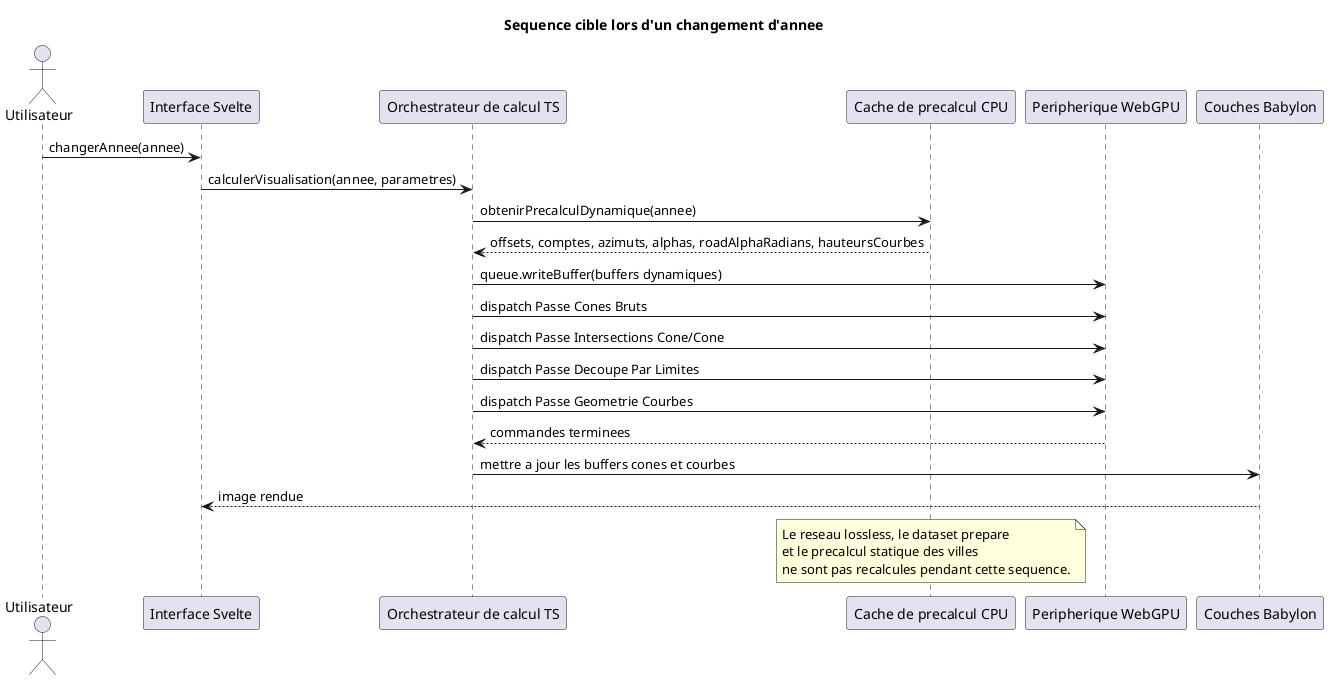
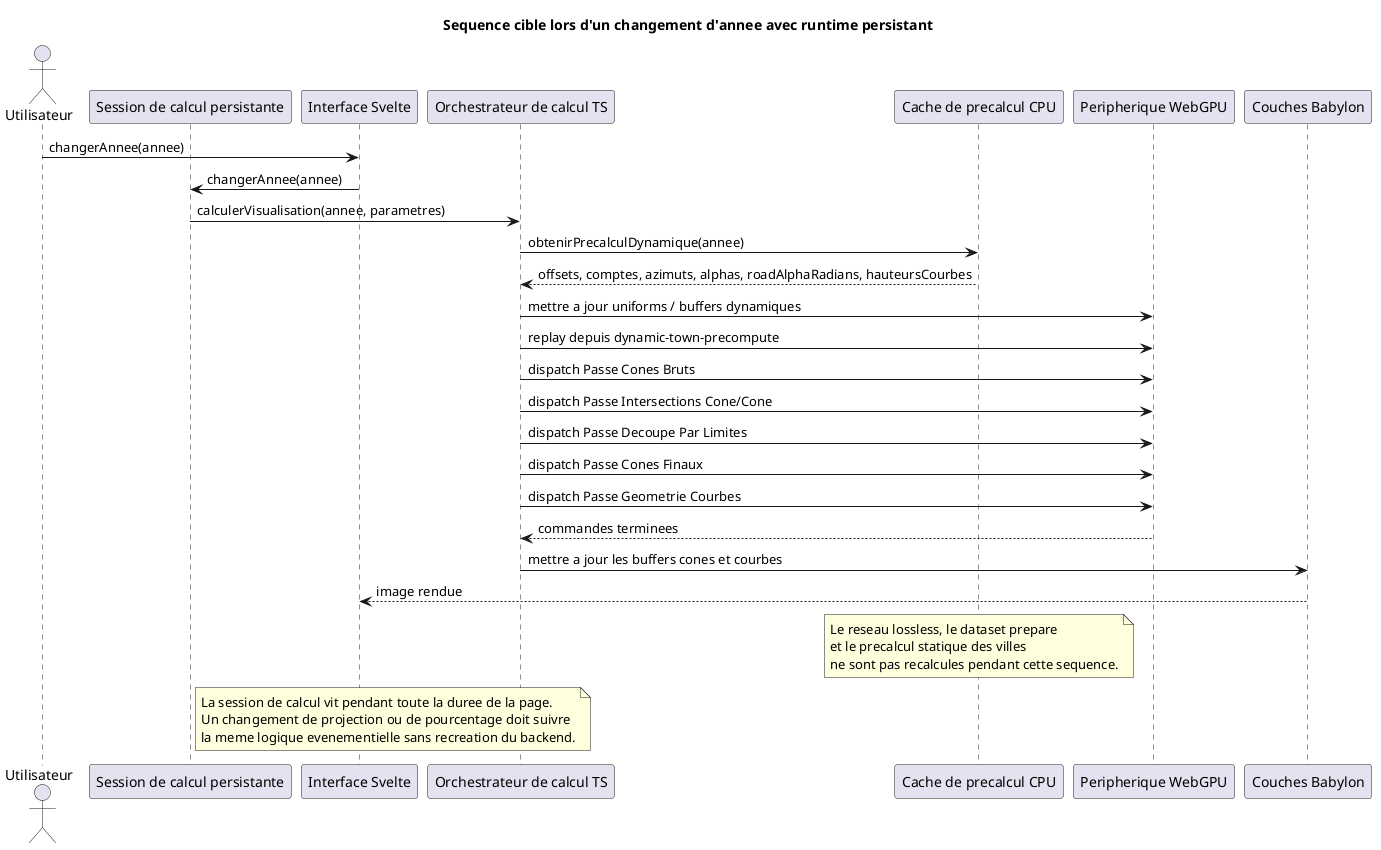
docs(m9): define browser gpu replay matrix

diff --git a/src/lib/compute/core/session.ts b/src/lib/compute/core/session.ts
@@ -18,6 +18,7 @@ import { createDefaultComputeBackendRegistry } from '../cpu';
  * context instead of tearing it down after each pass.
  */
 export interface ComputeSession {
+	warm(): Promise<void>;
 	selectProfile(request: ComputeProfileRequest): Promise<ComputeProfileSelection>;
 	computeFrame(input: ComputeInput, options?: ComputeOptions, request?: ComputeProfileRequest): Promise<ComputeResult>;
 	dispose(): Promise<void>;
@@ -32,10 +33,21 @@ export interface ComputeSession {
 export function createComputeSession(
 	registry: ComputeBackendRegistry = createDefaultComputeBackendRegistry(),
 ): ComputeSession {
-	let backend: ComputeBackend | null = null;
-	let backendProfile: ComputeProfileSelection['selected'] | null = null;
+	const backends = new Map<ComputeProfileSelection['selected'], ComputeBackend>();
 
 	return {
+		async warm(): Promise<void> {
+			await Promise.all([
+				warmBackend(registry, backends, 'cpu'),
+				warmBackend(registry, backends, 'webgl2'),
+				warmBackend(registry, backends, 'webgpu'),
+			].map((task) =>
+				task.catch((error) => {
+					console.warn('Compute backend warm-up failed:', error);
+				}),
+			));
+		},
+
 		selectProfile(request: ComputeProfileRequest): Promise<ComputeProfileSelection> {
 			return selectComputeProfile(request, registry);
 		},
@@ -46,20 +58,16 @@ export function createComputeSession(
 			request: ComputeProfileRequest = {},
 		): Promise<ComputeResult> {
 			const selection = await selectComputeProfile(request, registry);
-			const selectedBackend = await resolveSelectedBackend(registry, selection, backend, backendProfile);
-			backend = selectedBackend.backend;
-			backendProfile = selection.selected;
-			return selectedBackend.backend.computeFrame(input, options, selection);
+			const backend = await resolveSelectedBackend(registry, selection, backends);
+			return backend.computeFrame(input, options, selection);
 		},
 
 		async dispose(): Promise<void> {
-			if (!backend) {
-				return;
+			const disposals = Array.from(backends.values()).map((backend) => backend.dispose());
+			backends.clear();
+			if (disposals.length > 0) {
+				await Promise.all(disposals);
 			}
-			const currentBackend = backend;
-			backend = null;
-			backendProfile = null;
-			await currentBackend.dispose();
 		},
 	};
 }
@@ -67,18 +75,38 @@ export function createComputeSession(
 async function resolveSelectedBackend(
 	registry: ComputeBackendRegistry,
 	selection: ComputeProfileSelection,
-	currentBackend: ComputeBackend | null,
-	currentProfile: ComputeProfileSelection['selected'] | null,
-): Promise<{ backend: ComputeBackend }> {
-	if (currentBackend && currentProfile === selection.selected) {
-		return { backend: currentBackend };
+	backends: Map<ComputeProfileSelection['selected'], ComputeBackend>,
+): Promise<ComputeBackend> {
+	const currentBackend = backends.get(selection.selected);
+	if (currentBackend) {
+		return currentBackend;
 	}
 
 	const nextBackend = await createSelectedBackend(registry, selection);
-	if (currentBackend) {
-		await currentBackend.dispose();
+	backends.set(selection.selected, nextBackend);
+	return nextBackend;
+}
+
+async function warmBackend(
+	registry: ComputeBackendRegistry,
+	backends: Map<ComputeProfileSelection['selected'], ComputeBackend>,
+	profile: ComputeProfileSelection['selected'],
+): Promise<void> {
+	if (backends.has(profile)) {
+		return;
 	}
-	return { backend: nextBackend };
+	const descriptor = profile === 'cpu'
+		? registry.cpu
+		: profile === 'webgl2'
+			? registry.webgl2
+			: registry.webgpu;
+	if (!descriptor) {
+		return;
+	}
+	if (!(await descriptor.isAvailable())) {
+		return;
+	}
+	backends.set(profile, await descriptor.create());
 }
 
 async function createSelectedBackend(

diff --git a/src/routes/app/+page.svelte b/src/routes/app/+page.svelte
@@ -82,6 +82,7 @@
 
 	onMount(() => {
 		queryWorker = createQueryWorkerClient();
+		void computeSession.warm();
 		queryController = createQueryController({
 			getQueryWorker: () => queryWorker,
 			getQuerySnapshot: () => appState?.querySnapshot ?? null,

diff --git a/src/routes/workspace/+page.svelte b/src/routes/workspace/+page.svelte
@@ -87,6 +87,7 @@
 
 	onMount(() => {
 		queryWorker = createQueryWorkerClient();
+		void computeSession.warm();
 		const disposeWorkspaceE2e = installWorkspaceE2eApi({
 			setDataset: async (dataset: string) => {
 				selectedDataset = dataset;

diff --git a/docs/browser-gpu-runtime-stage-matrix.md b/docs/browser-gpu-runtime-stage-matrix.md
@@ -1,0 +1,79 @@
+# Browser GPU Runtime Stage Matrix
+
+This document is the operational matrix for the browser GPU runtime used by
+`workspace` and `app`.
+
+It answers two questions:
+
+- which data is required by each compute stage;
+- which kind of insertion the stage consumes or produces in the runtime
+  contract.
+
+The matrix is intentionally aligned with the historical `GPUComputer.calculate()`
+model from the main branch:
+
+- one runtime instance stays alive for the full page lifetime;
+- successive recomputations reuse that runtime;
+- only the minimal affected stage chain is replayed when a parameter changes.
+
+## Insertion Legend
+
+- `CPU`: CPU-side preparation or rewrite.
+- `U`: uniform or constant buffer.
+- `SB`: storage buffer.
+- `T`: texture / sampler pair.
+- `A`: vertex or instance attribute.
+- `TF`: transform feedback output.
+- `OUT`: output buffer or renderable geometry buffer.
+- `-`: not consumed by this stage.
+
+## Stage Matrix
+
+| Data / contract | ingestion / base-network | prepared-dataset | geojson-boundary-precompute | geojson-boundary-raycast | static-town-precompute | dynamic-town-precompute | raw-cones-precompute | cone-intersections-precompute | final-cones-precompute | curve-geometry-precompute |
+| --- | --- | --- | --- | --- | --- | --- | --- | --- | --- | --- |
+| source files / dataset manifest | CPU | - | - | - | - | - | - | - | - | - |
+| prepared dataset summary / static indices | CPU | U / SB | - | - | - | - | - | - | - | - |
+| GeoJSON contours / contour indexes | CPU | SB | T / SB | T / SB | - | - | - | - | - | - |
+| city NED2ECEF matrices | - | SB | - | - | SB | - | - | - | - | - |
+| pair invariants / overlap candidates | - | SB | - | - | SB | - | - | SB | - | - |
+| dynamic year / yearly town state | - | - | - | - | - | U / SB | U / SB | U / SB | U / SB | U / SB |
+| raw cone parameters | - | - | - | - | - | - | U / SB | U / SB | - | - |
+| cone intersection heuristics | - | - | - | - | - | - | - | U / SB | - | - |
+| projection mix start / end / percent / settings | - | - | - | - | - | - | - | - | U | - |
+| curve controls / curve year / coefficient | - | - | - | - | - | - | - | - | - | U / SB |
+| benchmark / diagnostics | CPU | CPU | CPU | CPU | CPU | CPU | CPU | CPU | CPU | CPU |
+
+## Replay Rules
+
+Use the matrix above to determine the earliest stage that must be replayed when
+an input changes.
+
+| Change | Minimal stage to replay | Notes |
+| --- | --- | --- |
+| dataset / source file set | `ingestion / base-network` | Rebuild the full chain; nothing downstream is reliable. |
+| GeoJSON geometry / boundary inputs | `geojson-boundary-precompute` | Replay the boundary precompute, then the dependent raycast and final stages. |
+| boundary azimuth sample count | `geojson-boundary-precompute` | The boundary precompute contract changes before the raycast. |
+| static town options (`sectorCount`, `neighborLimit`) | `static-town-precompute` | The static neighborhood contract changes, so all dependent stages must be replayed. |
+| year / yearly dynamic state | `dynamic-town-precompute` | Reuse the persistent runtime, refresh dynamic buffers, then replay raw cones and downstream stages. |
+| raw cone shape / sample count / length / attenuation | `raw-cones-precompute` | Raw cone buffers change, so intersection, final geometry and curves depending on those outputs must be replayed. |
+| cone intersection strategy / alpha heuristic | `cone-intersections-precompute` | Keep the same runtime, replay the ciseled / intersection stage and downstream outputs. |
+| projection mix or projection settings | `final-cones-precompute` | The projection formulas are applied at final cone emission for every backend profile. |
+| curve parameters | `curve-geometry-precompute` | Only the curve geometry stage must be replayed. |
+| compute profile (`cpu`, `webgl2`, `webgpu`) | profile-specific warm backend | The active runtime is swapped, but the same stage contract is replayed without re-reading the dataset. |
+
+## Practical Consequence
+
+The current application and workspace routes should keep one persistent compute
+session each.
+
+As long as the route remains mounted:
+
+- the session should be prewarmed on mount so the available browser GPU
+  backends are ready before the first user-driven recomputation;
+- the backend should stay warm;
+- changing the year should not recreate the runtime;
+- changing the projection mix should not recreate the runtime;
+- changing the profile should only swap the active backend, not the data
+  contract;
+- the compute passes remain event-driven and replay only from the first affected
+  stage.

diff --git a/docs/browser-gpu-runtime-notes.md b/docs/browser-gpu-runtime-notes.md
@@ -22,6 +22,8 @@ instead of rebuilding the backend for every year or projection change.
 - recreate the backend only when the profile changes or the page is disposed;
 - keep reduced datasets available for E2E coverage of the three profiles.
 - keep the page-owned compute session alive while the route remains mounted;
+- prewarm the available browser GPU backends on route mount so their contexts
+  and programs are operational before the first interactive recomputation;
 - reuse that session across year and projection changes even when the user
   changes the display projection mix.
 
@@ -44,6 +46,10 @@ instead of rebuilding the backend for every year or projection change.
   before the profile is treated as production-ready in the browser.
 - the backend should keep the device/context warm across successive frames and
   only rebuild when the profile changes or the route is disposed.
+- the stage/input replay matrix lives in
+  [`docs/browser-gpu-runtime-stage-matrix.md`](browser-gpu-runtime-stage-matrix.md)
+  and is the source of truth for deciding which passes must be replayed after
+  a parameter change.
 
 ## Application and Workspace
 
@@ -52,7 +58,10 @@ instead of rebuilding the backend for every year or projection change.
 - the UI should not auto-load a dataset at route entry;
 - E2E tests should use reduced datasets and explicitly cover CPU, WebGL2 and
   WebGPU paths.
-- each route owns one persistent compute session and disposes it on unmount;
+- each route owns one persistent compute session, prewarms it on mount, and
+  disposes it on unmount;
 - `final-cones` is the place where projection formulas are applied for every
   backend profile, but the session that drives it must remain alive between
   recomputations.
+- the minimal replay stage for each user change is documented in the stage
+  matrix and must drive the event handlers in `workspace` and `app`.

diff --git a/docs/precompute-dataflow-cpu-gpu.md b/docs/precompute-dataflow-cpu-gpu.md
@@ -103,6 +103,11 @@ preferee. Le benchmark doit enregistrer des temps par etape pour chaque profil
 disponible afin de comparer ingestion, preparation et calcul sur un meme
 dataset.
 
+La matrice de reprise par etape est documentee dans
+[`docs/browser-gpu-runtime-stage-matrix.md`](browser-gpu-runtime-stage-matrix.md).
+Elle precise quelles donnees sont inserees dans chaque passe, et a partir de
+quelle etape reprendre le pipeline quand un parametre change.
+
 ## Contrats D'Interfacage Communs
 
 Les trois profils `WebGPU -> WebGL2 -> CPU` doivent consommer les memes

diff --git a/docs/migration-validation-roadmap.md b/docs/migration-validation-roadmap.md
@@ -1660,6 +1660,9 @@ Browser GPU runtime note:
   WGSL doivent valider proprement avant d etre exposes comme stables;
 - les remarques de suivi sont detaillees dans
   [`docs/browser-gpu-runtime-notes.md`](browser-gpu-runtime-notes.md).
+- la granularite de reprise par etape est figee dans
+  [`docs/browser-gpu-runtime-stage-matrix.md`](browser-gpu-runtime-stage-matrix.md)
+  et doit guider les handlers d evenement du workspace et de l application.
 
 Travail attendu:
 